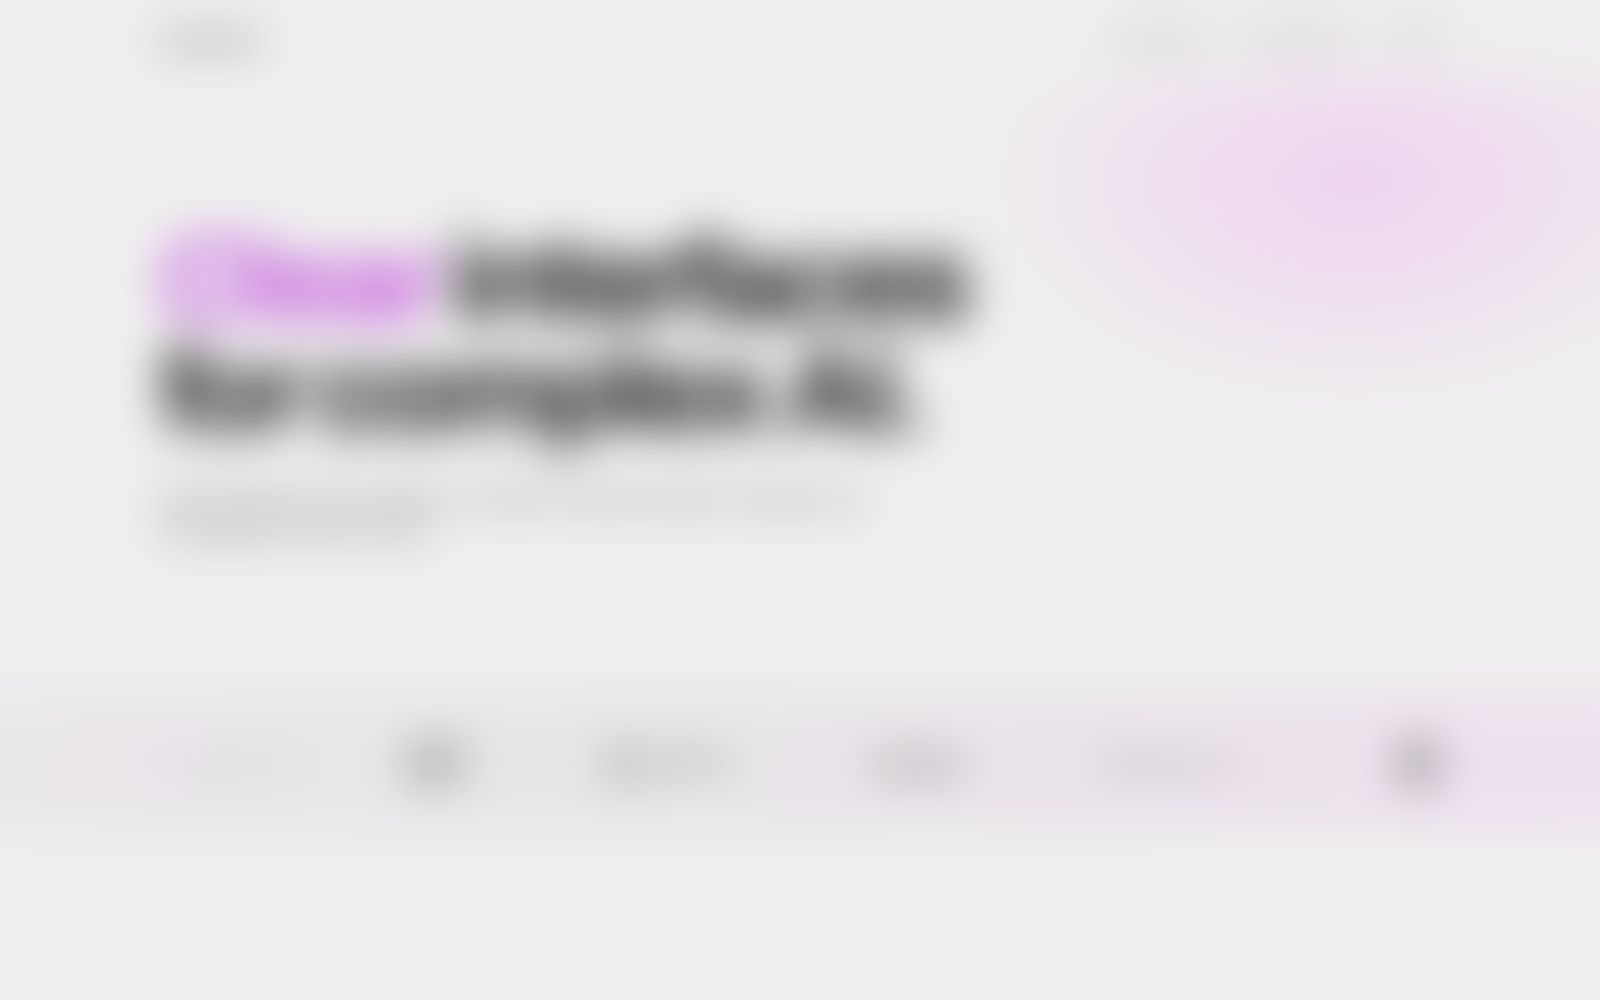
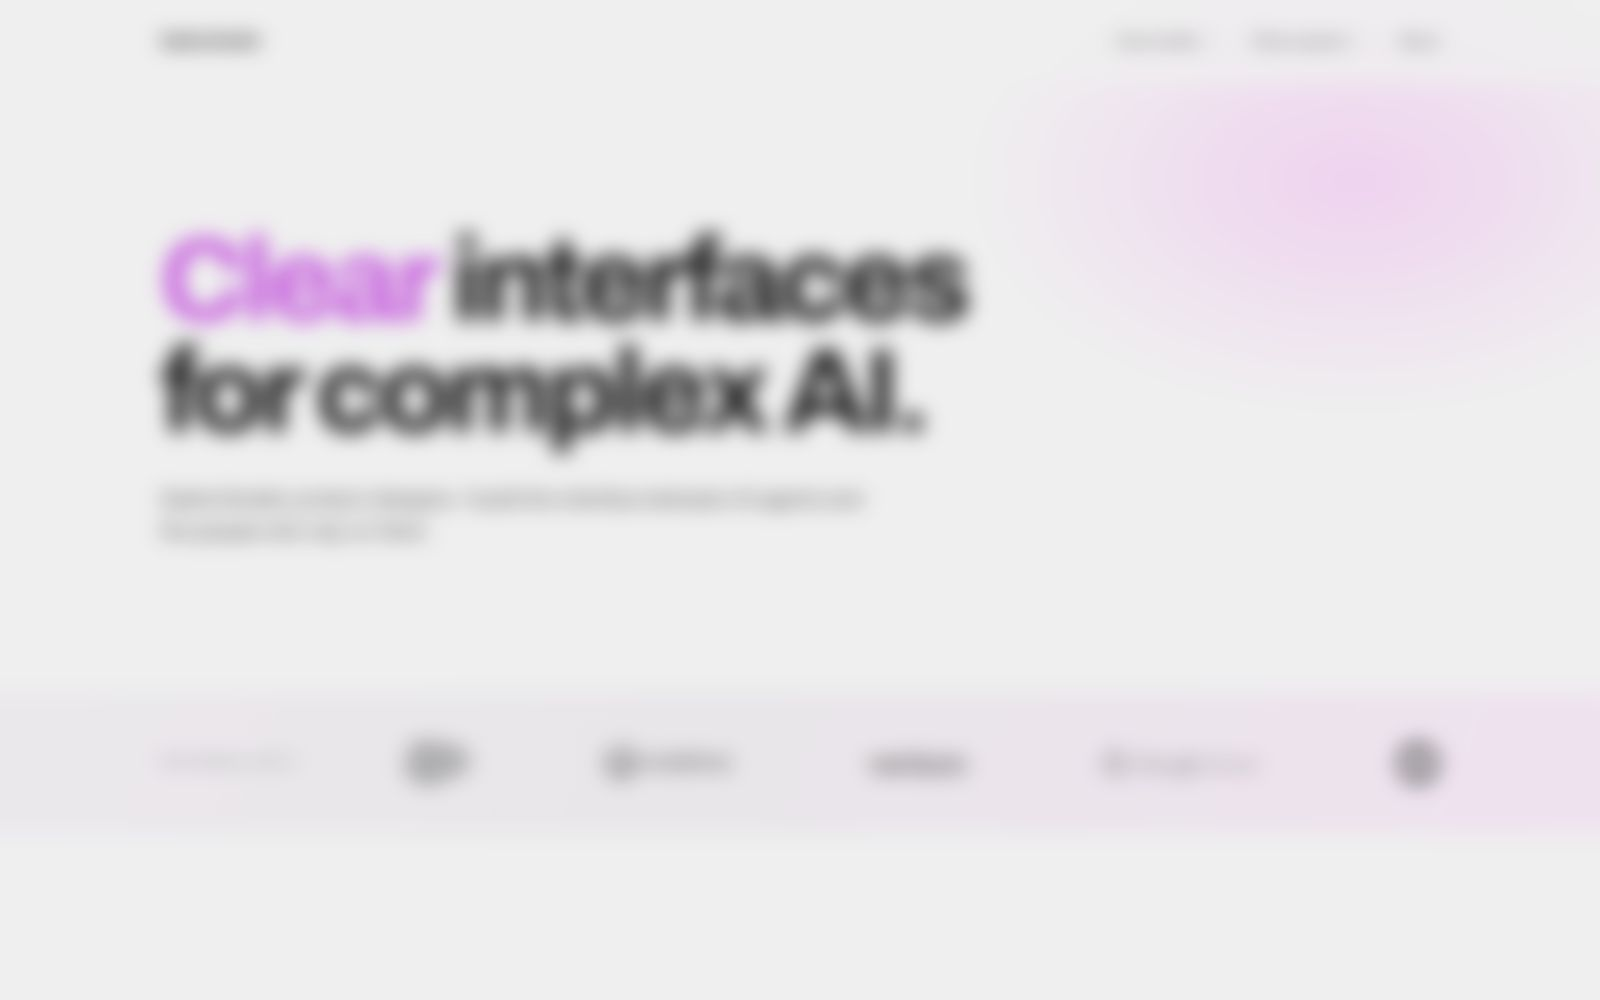
Rename homepage to home.html, speed up galleries, lighten login blur
- Homepage is now home.html (was index.html); "/" 307-redirects there
  via the gate middleware so the canonical URL is always home.html
- About page's "off the clock" slideshow interval halved (2000ms ->
  1000ms) for a twice-as-fast rotation
- Connectivity Guru's gallery now cuts instantly between images
  instead of crossfading (new .about-slideshow--instant modifier;
  the about page gallery keeps its fade)
- Login gate backdrop regenerated with a lighter blur (radius 10,
  matching the earlier-approved "10px" look) instead of the heavier
  bake used before

Changed region(s): [[0.0938, 0.217, 0.625, 0.465], [0.875, 0.744, 0.9062, 0.775], [0.25, 0.744, 0.2812, 0.775]]

diff --git a/connectivity-guru.html b/connectivity-guru.html
@@ -13,14 +13,14 @@
 <link rel="apple-touch-icon" href="images/favicon/apple-touch-icon.png">
 <link rel="preconnect" href="https://fonts.googleapis.com">
 <link rel="preconnect" href="https://fonts.gstatic.com" crossorigin>
-<link rel="stylesheet" href="css/main.css?v=1787727374">
+<link rel="stylesheet" href="css/main.css?v=1787819871">
 <noscript><style>[data-reveal], [data-hero-anim] { opacity: 1 !important; transform: none !important; }</style></noscript>
 </head>
 <body>
 <div class="load-bar" data-load-bar aria-hidden="true"></div>
 <header class="site-header">
 <nav class="site-nav" data-nav>
-  <a href="index.html" class="wordmark">Sasha Kendel</a>
+  <a href="home.html" class="wordmark">Sasha Kendel</a>
 
   <div class="nav-right">
     <div class="nav-menu" data-menu="cases">
@@ -59,7 +59,7 @@
 <header class="page-hero">
   <div class="bloom" aria-hidden="true"><div class="bloom__inner"></div></div>
 
-  <a href="index.html" class="back-link" data-hero-anim="1"><span class="back-link__arrow" aria-hidden="true">&larr;</span> Back to home</a>
+  <a href="home.html" class="back-link" data-hero-anim="1"><span class="back-link__arrow" aria-hidden="true">&larr;</span> Back to home</a>
 
   <h1 class="h1" data-hero-anim="2">Connectivity Guru</h1>
 
@@ -217,7 +217,7 @@
 
   <div class="figure-grid" style="margin-top: clamp(24px, 2.6vw, 36px);">
     <figure class="figure" data-reveal>
-      <div class="about-slideshow" data-slideshow data-interval="1300" style="aspect-ratio: 1518 / 1164;">
+      <div class="about-slideshow about-slideshow--instant" data-slideshow data-interval="1300" style="aspect-ratio: 1518 / 1164;">
         <img class="is-active" src="images/uploads/cg layers 1.png" alt="The heatmap building up as markers are placed, first pass">
         <img src="images/uploads/cg layers 2.png" alt="The heatmap building up as markers are placed, second pass">
         <img src="images/uploads/cg layers 3.png" alt="The heatmap building up as markers are placed, third pass">

diff --git a/about.html b/about.html
@@ -13,14 +13,14 @@
 <link rel="apple-touch-icon" href="images/favicon/apple-touch-icon.png">
 <link rel="preconnect" href="https://fonts.googleapis.com">
 <link rel="preconnect" href="https://fonts.gstatic.com" crossorigin>
-<link rel="stylesheet" href="css/main.css?v=1787727374">
+<link rel="stylesheet" href="css/main.css?v=1787819871">
 <noscript><style>[data-reveal], [data-hero-anim] { opacity: 1 !important; transform: none !important; }</style></noscript>
 </head>
 <body>
 <div class="load-bar" data-load-bar aria-hidden="true"></div>
 <header class="site-header">
 <nav class="site-nav" data-nav>
-  <a href="index.html" class="wordmark">Sasha Kendel</a>
+  <a href="home.html" class="wordmark">Sasha Kendel</a>
 
   <div class="nav-right">
     <div class="nav-menu" data-menu="cases">
@@ -103,7 +103,7 @@
     </div>
 
     <figure class="tech-row__figure tech-row__figure--center" data-reveal>
-      <div class="about-slideshow" data-slideshow data-interval="2000">
+      <div class="about-slideshow" data-slideshow data-interval="1000">
         <img class="is-active" src="images/uploads/1-ed4c4110.JPG" alt="Carrying the steel frame across the playa at Midburn" style="object-position: center 42%;">
         <img src="images/uploads/2-90c4e19a.JPG" alt="On site during the build" style="object-position: center 35%;">
         <img src="images/uploads/3-0c999255.JPG" alt="Tensioning the guy lines" style="object-position: center 50%;">

diff --git a/data-collection-app.html b/data-collection-app.html
@@ -13,14 +13,14 @@
 <link rel="apple-touch-icon" href="images/favicon/apple-touch-icon.png">
 <link rel="preconnect" href="https://fonts.googleapis.com">
 <link rel="preconnect" href="https://fonts.gstatic.com" crossorigin>
-<link rel="stylesheet" href="css/main.css?v=1787727374">
+<link rel="stylesheet" href="css/main.css?v=1787819871">
 <noscript><style>[data-reveal], [data-hero-anim] { opacity: 1 !important; transform: none !important; }</style></noscript>
 </head>
 <body>
 <div class="load-bar" data-load-bar aria-hidden="true"></div>
 <header class="site-header">
 <nav class="site-nav" data-nav>
-  <a href="index.html" class="wordmark">Sasha Kendel</a>
+  <a href="home.html" class="wordmark">Sasha Kendel</a>
 
   <div class="nav-right">
     <div class="nav-menu" data-menu="cases">
@@ -59,7 +59,7 @@
 <header class="page-hero">
   <div class="bloom" aria-hidden="true"><div class="bloom__inner"></div></div>
 
-  <a href="index.html" class="back-link" data-hero-anim="1"><span class="back-link__arrow" aria-hidden="true">&larr;</span> Back to home</a>
+  <a href="home.html" class="back-link" data-hero-anim="1"><span class="back-link__arrow" aria-hidden="true">&larr;</span> Back to home</a>
 
   <h1 class="h1" data-hero-anim="2">Data Collection App</h1>
 

diff --git a/auto-classifier.html b/auto-classifier.html
@@ -13,14 +13,14 @@
 <link rel="apple-touch-icon" href="images/favicon/apple-touch-icon.png">
 <link rel="preconnect" href="https://fonts.googleapis.com">
 <link rel="preconnect" href="https://fonts.gstatic.com" crossorigin>
-<link rel="stylesheet" href="css/main.css?v=1787727374">
+<link rel="stylesheet" href="css/main.css?v=1787819871">
 <noscript><style>[data-reveal], [data-hero-anim] { opacity: 1 !important; transform: none !important; }</style></noscript>
 </head>
 <body>
 <div class="load-bar" data-load-bar aria-hidden="true"></div>
 <header class="site-header">
 <nav class="site-nav" data-nav>
-  <a href="index.html" class="wordmark">Sasha Kendel</a>
+  <a href="home.html" class="wordmark">Sasha Kendel</a>
 
   <div class="nav-right">
     <div class="nav-menu" data-menu="cases">
@@ -59,7 +59,7 @@
 <header class="page-hero">
   <div class="bloom" aria-hidden="true"><div class="bloom__inner"></div></div>
 
-  <a href="index.html" class="back-link" data-hero-anim="1"><span class="back-link__arrow" aria-hidden="true">&larr;</span> Back to home</a>
+  <a href="home.html" class="back-link" data-hero-anim="1"><span class="back-link__arrow" aria-hidden="true">&larr;</span> Back to home</a>
 
   <h1 class="h1" data-hero-anim="2">Auto-Classifier</h1>
 

diff --git a/techsee-live.html b/techsee-live.html
@@ -13,14 +13,14 @@
 <link rel="apple-touch-icon" href="images/favicon/apple-touch-icon.png">
 <link rel="preconnect" href="https://fonts.googleapis.com">
 <link rel="preconnect" href="https://fonts.gstatic.com" crossorigin>
-<link rel="stylesheet" href="css/main.css?v=1787727374">
+<link rel="stylesheet" href="css/main.css?v=1787819871">
 <noscript><style>[data-reveal], [data-hero-anim] { opacity: 1 !important; transform: none !important; }</style></noscript>
 </head>
 <body>
 <div class="load-bar" data-load-bar aria-hidden="true"></div>
 <header class="site-header">
 <nav class="site-nav" data-nav>
-  <a href="index.html" class="wordmark">Sasha Kendel</a>
+  <a href="home.html" class="wordmark">Sasha Kendel</a>
 
   <div class="nav-right">
     <div class="nav-menu" data-menu="cases">
@@ -59,7 +59,7 @@
 <header class="page-hero">
   <div class="bloom" aria-hidden="true"><div class="bloom__inner"></div></div>
 
-  <a href="index.html" class="back-link" data-hero-anim="1"><span class="back-link__arrow" aria-hidden="true">&larr;</span> Back to home</a>
+  <a href="home.html" class="back-link" data-hero-anim="1"><span class="back-link__arrow" aria-hidden="true">&larr;</span> Back to home</a>
 
   <h1 class="h1" data-hero-anim="2">TechSee Live</h1>
 

diff --git a/sophie-ai.html b/sophie-ai.html
@@ -13,14 +13,14 @@
 <link rel="apple-touch-icon" href="images/favicon/apple-touch-icon.png">
 <link rel="preconnect" href="https://fonts.googleapis.com">
 <link rel="preconnect" href="https://fonts.gstatic.com" crossorigin>
-<link rel="stylesheet" href="css/main.css?v=1787727374">
+<link rel="stylesheet" href="css/main.css?v=1787819871">
 <noscript><style>[data-reveal], [data-hero-anim] { opacity: 1 !important; transform: none !important; }</style></noscript>
 </head>
 <body>
 <div class="load-bar" data-load-bar aria-hidden="true"></div>
 <header class="site-header">
 <nav class="site-nav" data-nav>
-  <a href="index.html" class="wordmark">Sasha Kendel</a>
+  <a href="home.html" class="wordmark">Sasha Kendel</a>
 
   <div class="nav-right">
     <div class="nav-menu" data-menu="cases">
@@ -59,7 +59,7 @@
 <header class="page-hero">
   <div class="bloom" aria-hidden="true"><div class="bloom__inner"></div></div>
 
-  <a href="index.html" class="back-link" data-hero-anim="1"><span class="back-link__arrow" aria-hidden="true">&larr;</span> Back to home</a>
+  <a href="home.html" class="back-link" data-hero-anim="1"><span class="back-link__arrow" aria-hidden="true">&larr;</span> Back to home</a>
 
   <h1 class="h1" data-hero-anim="2">Sophie AI</h1>
 

diff --git a/pages/connectivity-guru.content.html b/pages/connectivity-guru.content.html
@@ -1,7 +1,7 @@
 <header class="page-hero">
   <div class="bloom" aria-hidden="true"><div class="bloom__inner"></div></div>
 
-  <a href="index.html" class="back-link" data-hero-anim="1"><span class="back-link__arrow" aria-hidden="true">&larr;</span> Back to home</a>
+  <a href="home.html" class="back-link" data-hero-anim="1"><span class="back-link__arrow" aria-hidden="true">&larr;</span> Back to home</a>
 
   <h1 class="h1" data-hero-anim="2">Connectivity Guru</h1>
 
@@ -159,7 +159,7 @@
 
   <div class="figure-grid" style="margin-top: clamp(24px, 2.6vw, 36px);">
     <figure class="figure" data-reveal>
-      <div class="about-slideshow" data-slideshow data-interval="1300" style="aspect-ratio: 1518 / 1164;">
+      <div class="about-slideshow about-slideshow--instant" data-slideshow data-interval="1300" style="aspect-ratio: 1518 / 1164;">
         <img class="is-active" src="images/uploads/cg layers 1.png" alt="The heatmap building up as markers are placed, first pass">
         <img src="images/uploads/cg layers 2.png" alt="The heatmap building up as markers are placed, second pass">
         <img src="images/uploads/cg layers 3.png" alt="The heatmap building up as markers are placed, third pass">

diff --git a/home.html b/home.html
@@ -13,14 +13,14 @@
 <link rel="apple-touch-icon" href="images/favicon/apple-touch-icon.png">
 <link rel="preconnect" href="https://fonts.googleapis.com">
 <link rel="preconnect" href="https://fonts.gstatic.com" crossorigin>
-<link rel="stylesheet" href="css/main.css?v=1787727374">
+<link rel="stylesheet" href="css/main.css?v=1787819871">
 <noscript><style>[data-reveal], [data-hero-anim] { opacity: 1 !important; transform: none !important; }</style></noscript>
 </head>
 <body>
 <div class="load-bar" data-load-bar aria-hidden="true"></div>
 <header class="site-header">
 <nav class="site-nav" data-nav>
-  <a href="index.html" class="wordmark">Sasha Kendel</a>
+  <a href="home.html" class="wordmark">Sasha Kendel</a>
 
   <div class="nav-right">
     <div class="nav-menu" data-menu="cases">

diff --git a/middleware.js b/middleware.js
@@ -202,13 +202,17 @@ export default async function middleware(request) {
     );
   }
 
+  const url = new URL(request.url);
+  if (url.pathname === '/' && request.method === 'GET') {
+    return Response.redirect(new URL('/home.html', url), 307);
+  }
+
   if (request.method === 'POST') {
     const form = await request.formData();
     const password = (form.get('password') || '').toString();
     const hash = await sha256Hex(password);
 
     if (hash === expectedHash) {
-      const url = new URL(request.url);
       const res = new Response(null, { status: 303, headers: { Location: url.pathname } });
       res.headers.append(
         'Set-Cookie',

diff --git a/pages/about.content.html b/pages/about.content.html
@@ -45,7 +45,7 @@
     </div>
 
     <figure class="tech-row__figure tech-row__figure--center" data-reveal>
-      <div class="about-slideshow" data-slideshow data-interval="2000">
+      <div class="about-slideshow" data-slideshow data-interval="1000">
         <img class="is-active" src="images/uploads/1-ed4c4110.JPG" alt="Carrying the steel frame across the playa at Midburn" style="object-position: center 42%;">
         <img src="images/uploads/2-90c4e19a.JPG" alt="On site during the build" style="object-position: center 35%;">
         <img src="images/uploads/3-0c999255.JPG" alt="Tensioning the guy lines" style="object-position: center 50%;">

diff --git a/css/about.css b/css/about.css
@@ -58,6 +58,8 @@
 }
 .about-slideshow img.is-active { opacity: 1; }
 
+.about-slideshow--instant img { transition: none; }
+
 .about-quotes { display: grid; grid-template-columns: repeat(auto-fit, minmax(280px, 1fr)); gap: clamp(28px, 3.4vw, 48px); }
 .about-quote { padding-left: 18px; border-left: 2px solid var(--border-quote); display: flex; flex-direction: column; justify-content: center; gap: 12px; }
 .about-quote__text { font-size: var(--text-body); font-style: italic; font-weight: 400; line-height: 1.4; color: var(--ink-body-strong); text-wrap: pretty; }

diff --git a/pages/data-collection-app.content.html b/pages/data-collection-app.content.html
@@ -1,7 +1,7 @@
 <header class="page-hero">
   <div class="bloom" aria-hidden="true"><div class="bloom__inner"></div></div>
 
-  <a href="index.html" class="back-link" data-hero-anim="1"><span class="back-link__arrow" aria-hidden="true">&larr;</span> Back to home</a>
+  <a href="home.html" class="back-link" data-hero-anim="1"><span class="back-link__arrow" aria-hidden="true">&larr;</span> Back to home</a>
 
   <h1 class="h1" data-hero-anim="2">Data Collection App</h1>
 
